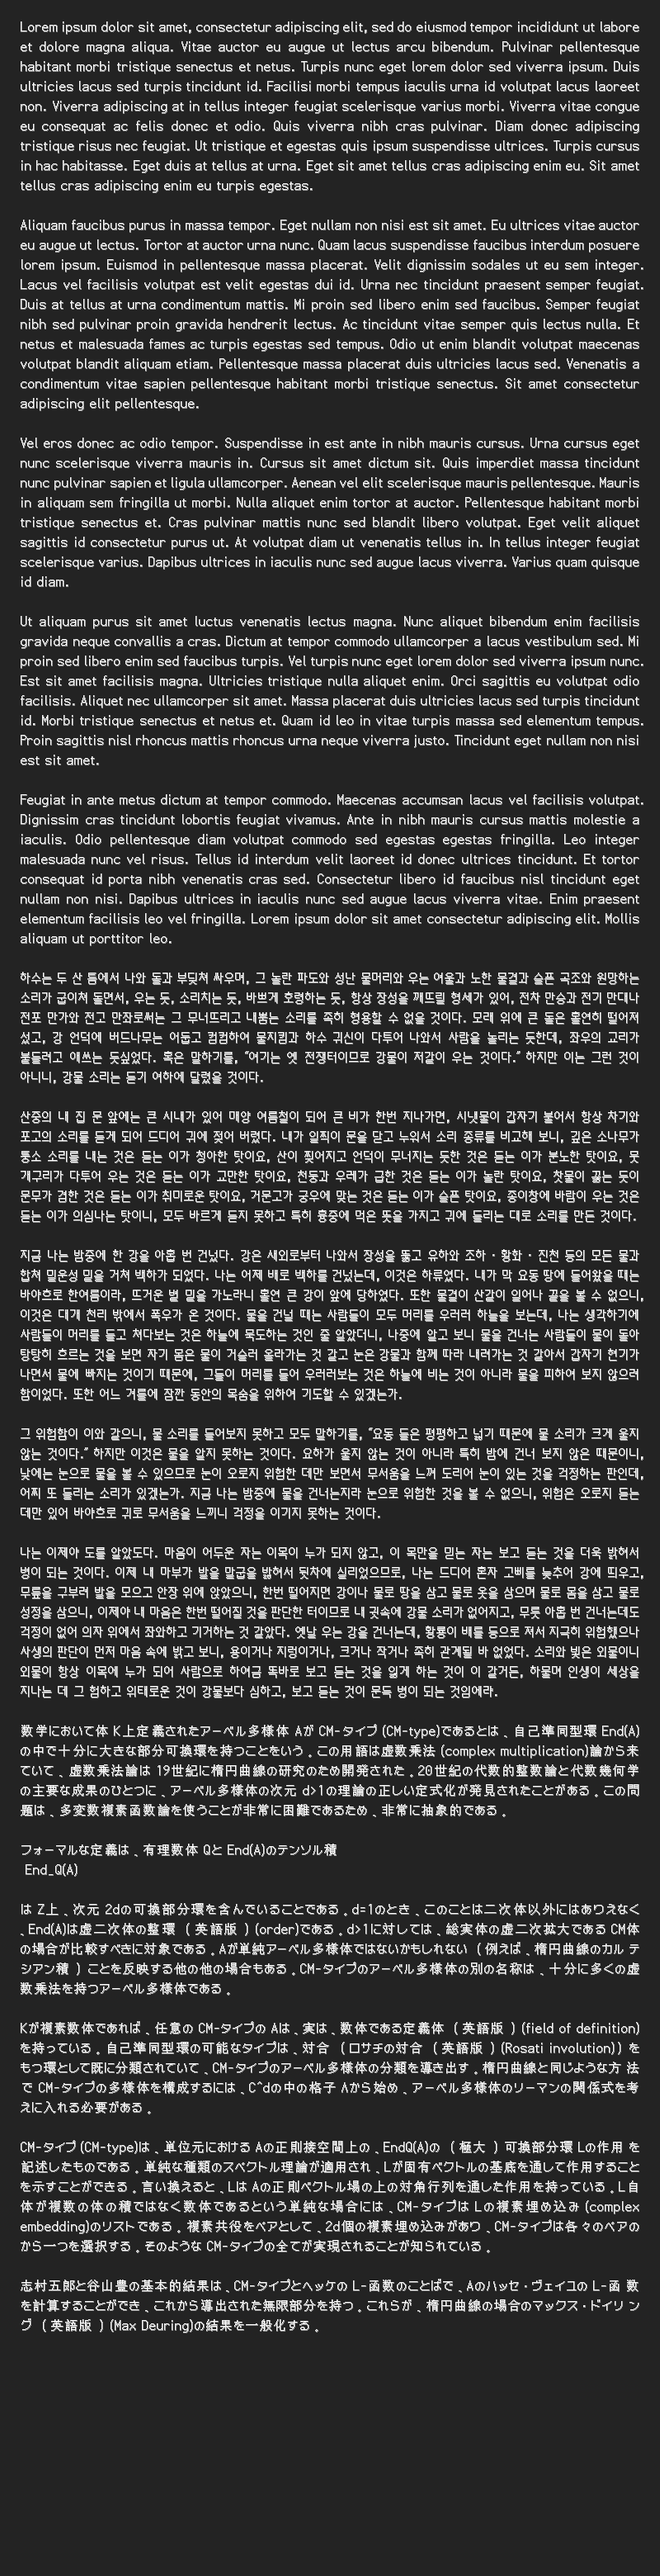
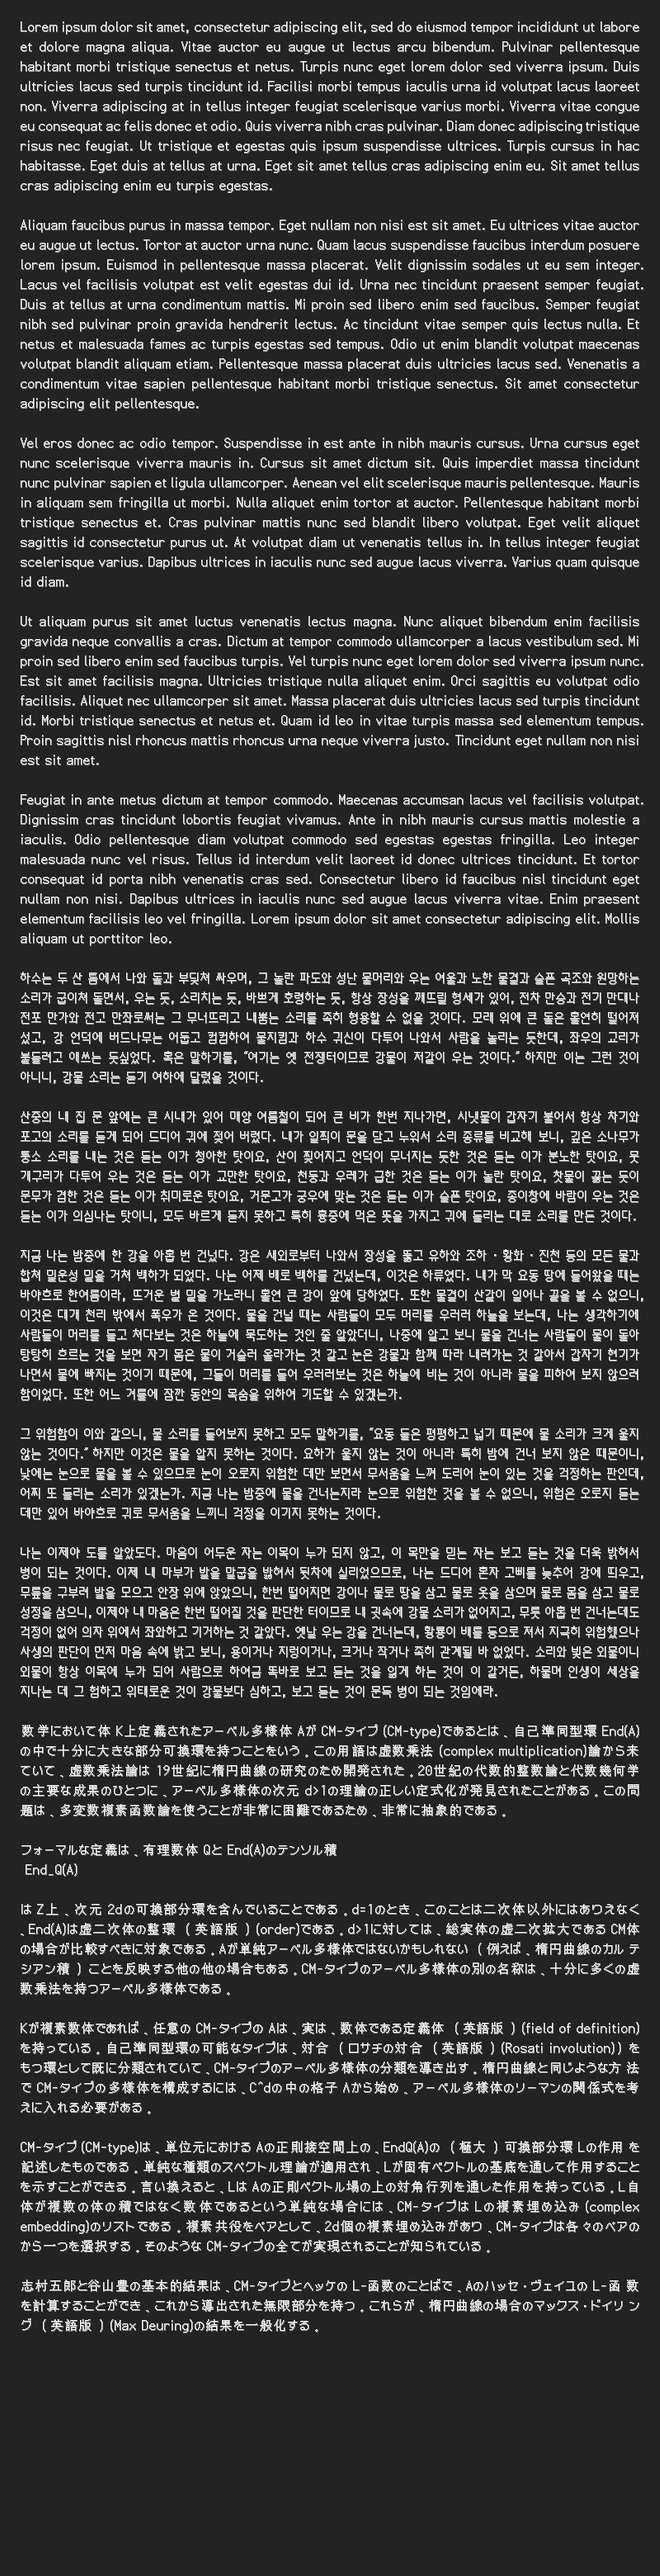
kerning rule for rs and dots

diff --git a/src/net/torvald/terrarumsansbitmap/gdx/TerrarumSansBitmap.kt b/src/net/torvald/terrarumsansbitmap/gdx/TerrarumSansBitmap.kt
@@ -1813,6 +1813,12 @@ class TerrarumSansBitmap(
     fun CodePoint.isLowHeight() = glyphProps[this]?.isLowheight == true
 
     private fun getKerning(prevChar: CodePoint, thisChar: CodePoint): Int {
+        // dirty way of special rule sue me lol
+        if (lowercaseRs.contains(prevChar) && dots.contains(thisChar)) {
+            return -1
+        }
+
+        // use keming machine
         val maskL = glyphProps[prevChar]?.kerningMask
         val maskR = glyphProps[thisChar]?.kerningMask
         return if (glyphProps[prevChar]?.hasKernData == true && glyphProps[thisChar]?.hasKernData == true) {
@@ -2501,6 +2507,13 @@ class TerrarumSansBitmap(
 
 
         // END Hangul //
+
+        // latin specific //
+
+        private val lowercaseRs = arrayOf(0x72, 0x155, 0x157, 0x159, 0x211, 0x213, 0x27c, 0x1e59, 0x1e58, 0x1e5f).toSortedSet()
+        private val dots = arrayOf(0x2c, 0x2e).toSortedSet()
+
+        // END latin //
 
         private fun isHangul(c: CodePoint) = c in codeRange[SHEET_HANGUL] || c in codeRangeHangulCompat
         private fun isBulgarian(c: CodePoint) = c in 0xF0000..0xF005F
